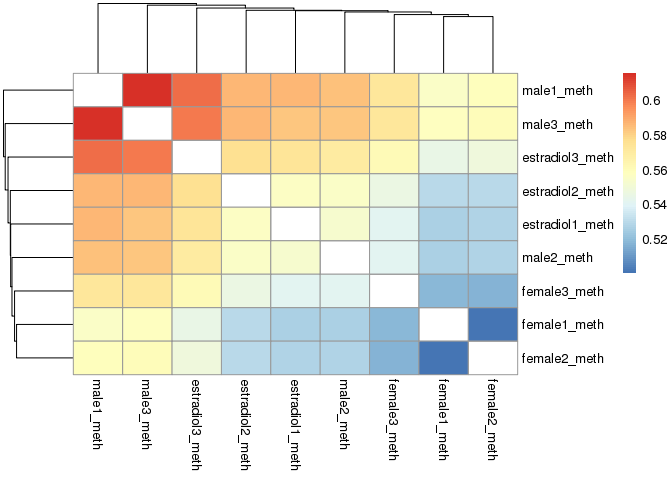
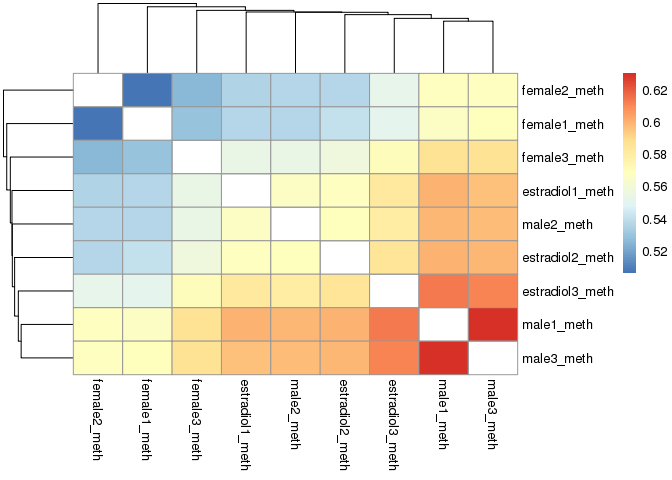
Removed duplicates

diff --git a/Data_Analysis/1-Methylation_sanity_check.md b/Data_Analysis/1-Methylation_sanity_check.md
@@ -71,15 +71,15 @@ lapply(cpg_files, nrow) %>% data.frame() %>% t() %>% data.frame() %>% add_rownam
 ## 
 ##      rowname        .
 ##        (chr)    (int)
-## 1    female1  8924132
-## 2    female2  8703590
-## 3    female3 13634545
-## 4 estradiol1 13813794
-## 5 estradiol2 14180700
-## 6 estradiol3 16629552
-## 7      male1 18060763
-## 8      male2 15175856
-## 9      male3 17691011
+## 1    female1  8922668
+## 2    female2  8702855
+## 3    female3 13632672
+## 4 estradiol1 13811801
+## 5 estradiol2 14178594
+## 6 estradiol3 16619149
+## 7      male1 18058509
+## 8      male2 15173572
+## 9      male3 17688957
 ```
 
 #### Per chromosome per sample
@@ -114,15 +114,15 @@ foreach(i=1:length(cpg_files), .combine = rbind) %dopar%{
 
 ```
 ##    average_Cov     sample
-## 1:    8.824868    female1
-## 2:    2.578682    female2
-## 3:    8.643951    female3
-## 4:    9.084398 estradiol1
-## 5:    8.191324 estradiol2
-## 6:    5.291155 estradiol3
-## 7:    7.437166      male1
-## 8:    7.796569      male2
-## 9:    7.098913      male3
+## 1:    1.409210    female1
+## 2:    1.414381    female2
+## 3:    1.901558    female3
+## 4:    2.013134 estradiol1
+## 5:    2.103462 estradiol2
+## 6:    2.696568 estradiol3
+## 7:    3.191067      male1
+## 8:    2.138167      male2
+## 9:    3.048415      male3
 ```
 
 ### Coverage distribution
@@ -141,7 +141,7 @@ cov_distribution %>%
 ```
 
 ```
-## Warning: Removed 4795 rows containing missing values (geom_path).
+## Warning: Removed 226 rows containing missing values (geom_path).
 ```
 
 ![](1-Methylation_sanity_check_files/figure-html/cov_distribution-1.png)
@@ -161,13 +161,13 @@ foreach(i=1:length(cpg_files), .combine = rbind) %dopar%{
 ##    mean_meth     sample
 ## 1:     0.763    female1
 ## 2:     0.777    female2
-## 3:     0.777    female3
+## 3:     0.776    female3
 ## 4:     0.772 estradiol1
-## 5:     0.777 estradiol2
-## 6:     0.778 estradiol3
+## 5:     0.776 estradiol2
+## 6:     0.777 estradiol3
 ## 7:     0.771      male1
 ## 8:     0.774      male2
-## 9:     0.776      male3
+## 9:     0.775      male3
 ```
 
 Looks like methylation is generally very similar across samples
@@ -206,7 +206,7 @@ pairwise_cor <- cpg_files_merged %>%
 
 diag(pairwise_cor) <- NA
 
-hclust <- hclust(as.dist(pairwise_cor))
+hclust <- hclust(as.dist(1-pairwise_cor))
 
 pheatmap(pairwise_cor, cluster_rows = hclust, cluster_cols = hclust)
 ```
